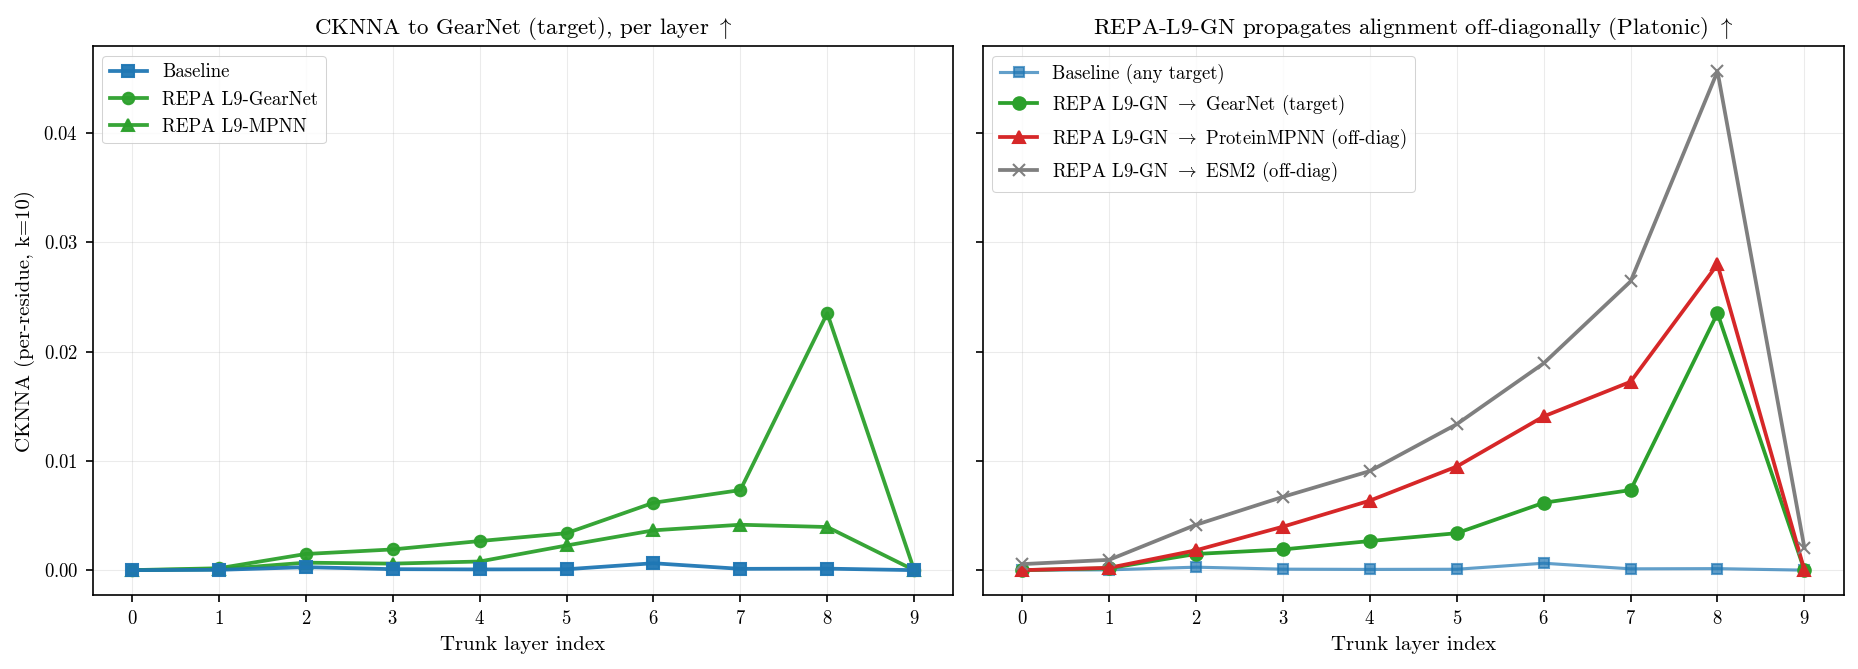
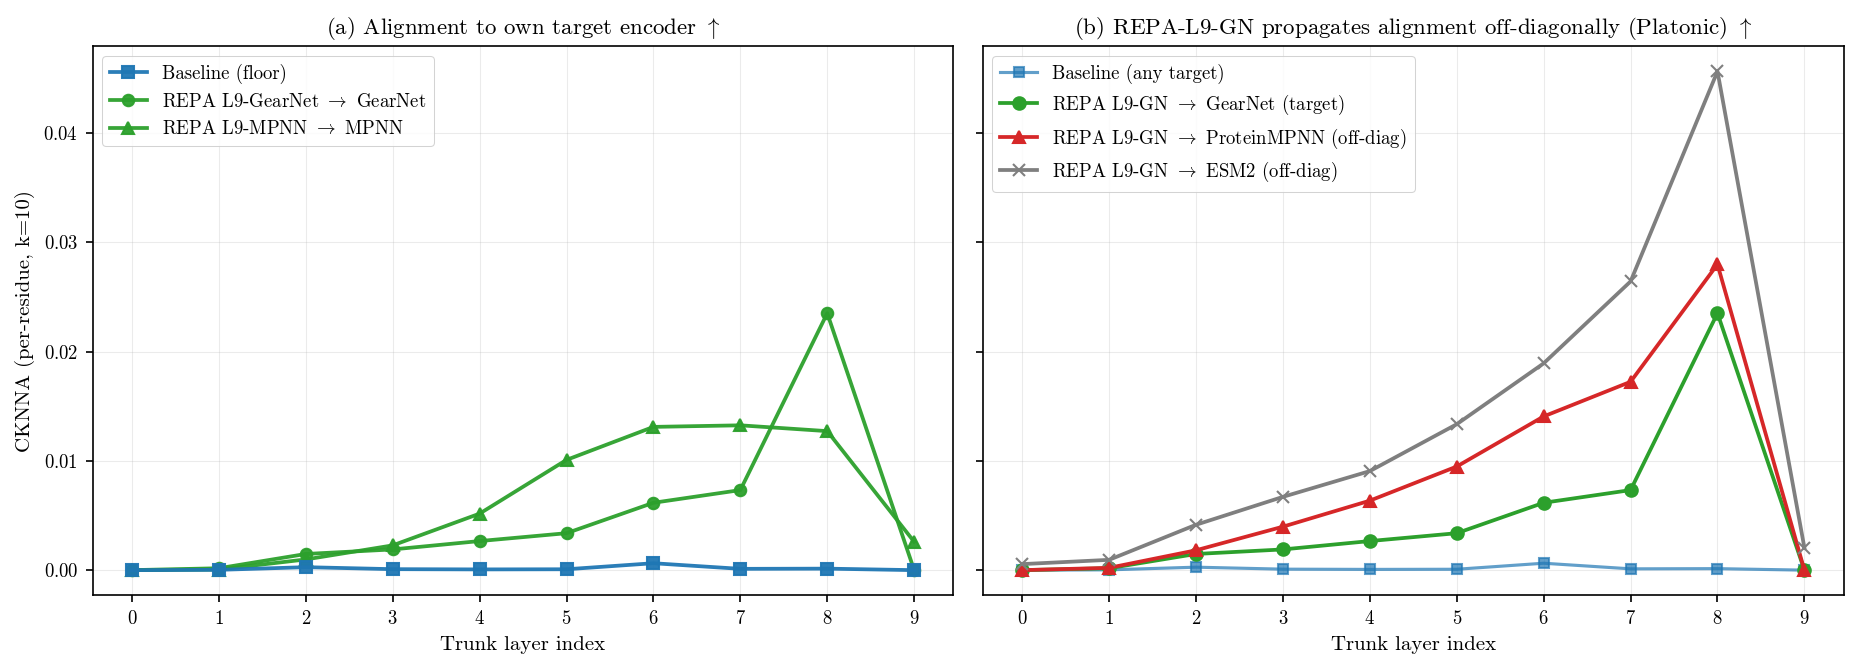
docs(fig): fig03 — 2-panel (own-target lift + Platonic off-diagonal), (a)/(b) labels, trimmed caption

diff --git a/docs/masters-report/figures/fig03_alignment.tex b/docs/masters-report/figures/fig03_alignment.tex
@@ -2,6 +2,6 @@
 \begin{figure}[tbp]
 \centering
 \includegraphics[width=\textwidth]{figures/fig03_alignment.png}
-\caption{\textbf{REPA pulls the trunk's geometry toward the encoder's --- and toward encoders it was never trained on (Platonic convergence).} The baseline sits at the random floor at every layer (CKNNA $\approx 0$); REPA lifts per-residue alignment into a smooth profile that peaks one layer below the injection point and collapses at the velocity-output layer, cleanly separated from the baseline by the subsample bootstrap. Aligning to GearNet alone also pulls the trunk toward ProteinMPNN and ESM2 --- the off-diagonal Platonic signature, with ESM2 the strongest attractor. Absolute alignment is small (peak $\approx 0.02$--$0.05$ against $1$ for self-alignment), so we read direction and layer structure, not magnitude; the per-protein signal is far weaker and we do not claim a fold-level benefit. ($n{\le}256$ PDB, step 1M, $t{=}1.0$; per-residue CKNNA, $k{=}10$.)}
+\caption{\textbf{REPA aligns the trunk toward structural encoders --- including ones it never trained against (Platonic convergence).} \textbf{(a)} Each REPA variant lifts per-residue alignment to its own target encoder above the baseline floor (CKNNA $\approx 0$); magnitudes to different target encoders are not directly comparable. \textbf{(b)} A GearNet-aligned trunk also moves toward ProteinMPNN and ESM2, encoders it was never aligned to. Absolute alignment is small throughout (peak $\approx 0.02$--$0.05$ against $1$ for self-alignment), so we read the pattern, not its magnitude; the per-protein signal is far weaker, and we claim no chain-level benefit. ($n{\le}256$ PDB, step 1M, $t{=}1.0$; per-residue CKNNA, $k{=}10$.)}
 \label{fig:proteina-cknna}
 \end{figure}

diff --git a/docs/masters-report/figures/scripts/fig3_alignment.py b/docs/masters-report/figures/scripts/fig3_alignment.py
@@ -59,11 +59,36 @@ def model_style(model):
 
 fig, axes = plt.subplots(1, 2, figsize=(12.5, 4.6), sharey=True)
 
-# LEFT — alignment to GearNet target: baseline + REPA variants
+# LEFT — each REPA variant's alignment to ITS OWN target encoder, vs baseline floor
 ax = axes[0]
-for model in ["baseline", "repa_gearnet_l9", "repa_mpnn_l9"]:
-    color, marker, label, z = model_style(model)
-    pts = by_layer(model, "gearnet")
+OWN = [
+    (
+        "baseline",
+        "gearnet",
+        "Baseline (floor)",
+        COLORS["baseline"],
+        MARKERS["baseline"],
+        10,
+    ),
+    (
+        "repa_gearnet_l9",
+        "gearnet",
+        "REPA L9-GearNet $\\rightarrow$ GearNet",
+        COLORS["L9"],
+        MARKERS["GearNet"],
+        8,
+    ),
+    (
+        "repa_mpnn_l9",
+        "mpnn",
+        "REPA L9-MPNN $\\rightarrow$ MPNN",
+        COLORS["L9"],
+        MARKERS["MPNN"],
+        8,
+    ),
+]
+for model, target, label, color, marker, z in OWN:
+    pts = by_layer(model, target)
     if not pts:
         continue
     ax.plot(
@@ -80,7 +105,7 @@ for model in ["baseline", "repa_gearnet_l9", "repa_mpnn_l9"]:
     )
 setup_axes(
     ax,
-    title="CKNNA to GearNet (target), per layer $\\uparrow$",
+    title="(a) Alignment to own target encoder $\\uparrow$",
     xlabel="Trunk layer index",
     ylabel="CKNNA (per-residue, k=10)",
 )
@@ -125,7 +150,7 @@ for target, label, color, marker in TARGETS:
     )
 setup_axes(
     ax,
-    title="REPA-L9-GN propagates alignment off-diagonally (Platonic) $\\uparrow$",
+    title="(b) REPA-L9-GN propagates alignment off-diagonally (Platonic) $\\uparrow$",
     xlabel="Trunk layer index",
 )
 ax.set_xticks(list(range(0, 10)))
